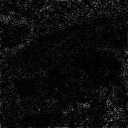
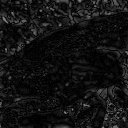
add

diff --git a/Question_31_40/answers/answer_34.py b/Question_31_40/answers/answer_34.py
@@ -30,7 +30,7 @@ _G[:H//2, :W//2] = G[H//2:, W//2:]
 _G[:H//2, W//2:] = G[H//2:, :W//2]
 _G[H//2:, :W//2] = G[:H//2, W//2:]
 _G[H//2:, W//2:] = G[:H//2, :W//2]
-p = 0.2
+p = 0.1
 _x = x - W // 2
 _y = y - H // 2
 r = np.sqrt(_x ** 2 + _y ** 2)
